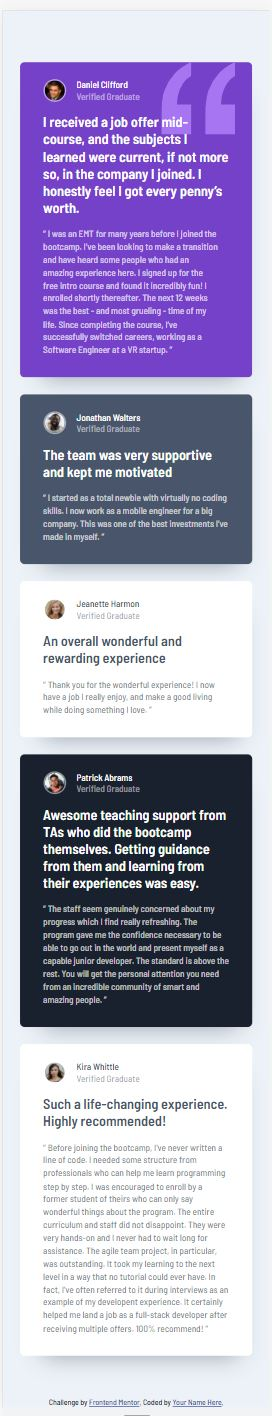
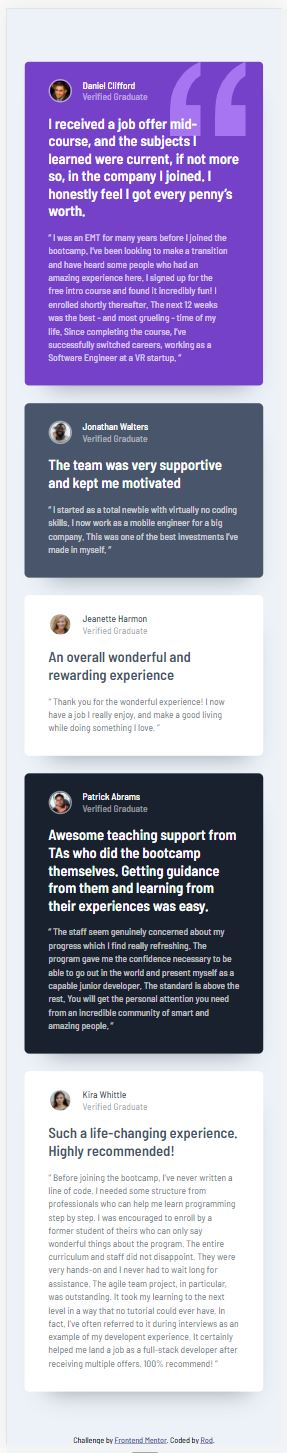
missing screenshots and minor changes in html

diff --git a/index.html b/index.html
@@ -103,7 +103,7 @@
   </section>
   <div class="attribution">
     Challenge by <a href="https://www.frontendmentor.io?ref=challenge" target="_blank">Frontend Mentor</a>.
-    Coded by <a href="#">Your Name Here</a>.
+    Coded by <a href="#">Rod</a>.
   </div>
 </body>
 
